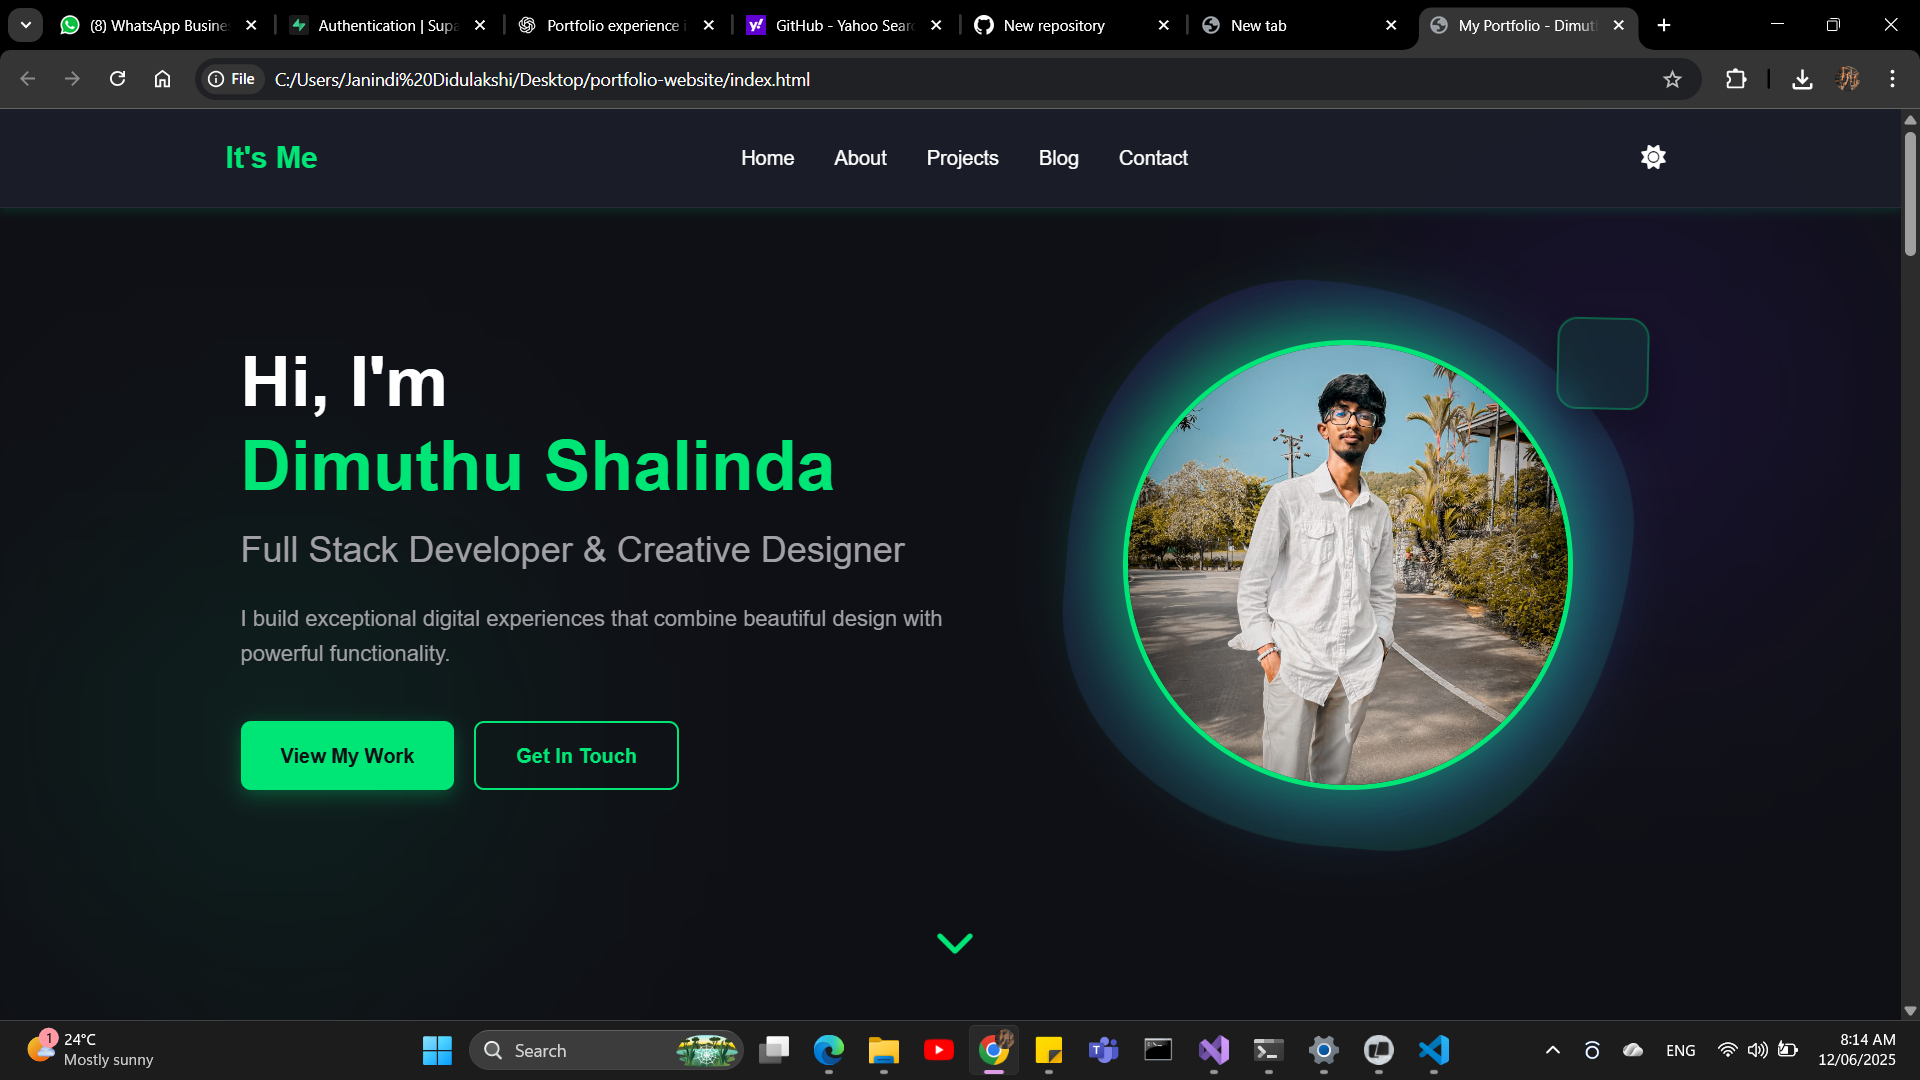
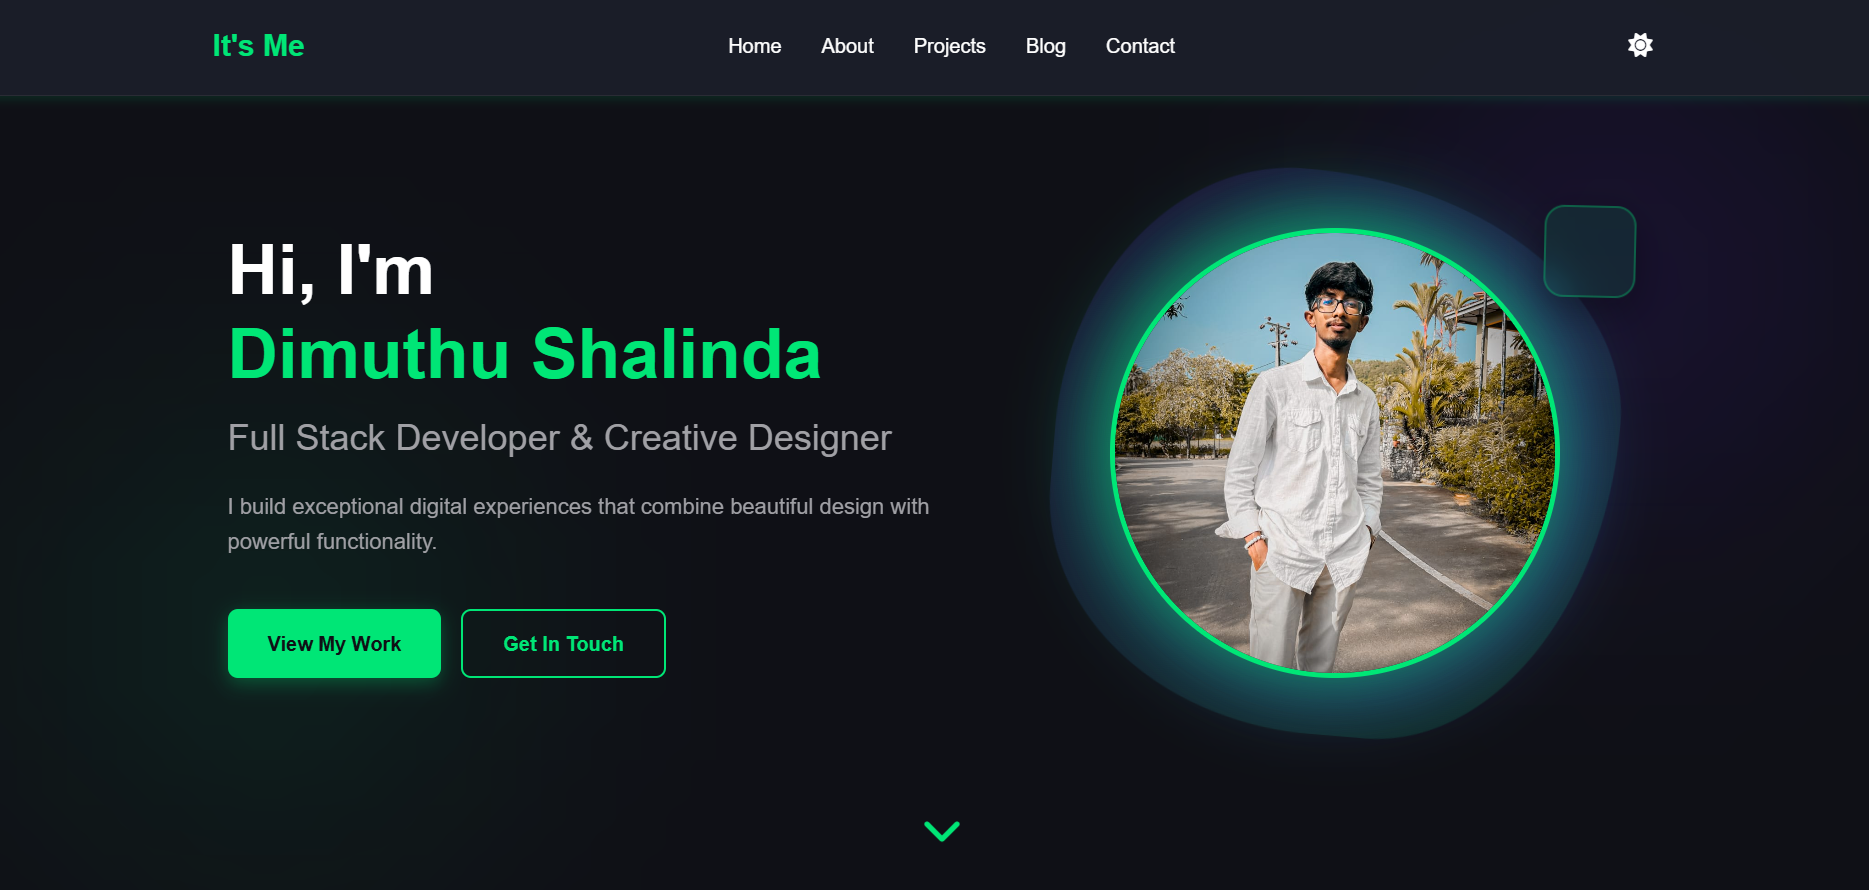
Add files via upload

diff --git a/index.html b/index.html
@@ -12,7 +12,7 @@
     <nav class="navbar" id="navbar">
         <div class="container">
             <div class="logo">
-                <a href="#home">It's Me</a>
+                <a href="#home">WELCOME</a>
             </div>
             <ul class="nav-links" id="navLinks">
                 <li><a href="#home" class="nav-link">Home</a></li>
@@ -203,25 +203,26 @@
                 <!-- Project Card 1 -->
                 <div class="project-card">
                     <div class="project-image">
-                        <img src="https://images.unsplash.com/photo-1557821552-17105176677c?w=1200&h=800&fit=crop" alt="E-commerce Platform">
+                        <img src="C:\Users\Janindi Didulakshi\Desktop\portfolio-website\Images\HOME.png" alt="Portfolio-Website">
                         <div class="project-overlay">
                             <div class="project-links">
-                                <a href="https://github.com/yourusername/project1" target="_blank" class="project-link">
+                                <a href="https://github.com/Scopiarchy/Portfolio-Website-Personal-Project-" target="_blank" class="project-link">
                                     <i class="fab fa-github"></i>
                                 </a>
-                                <a href="https://project1-demo.com" target="_blank" class="project-link">
+                                <a href="roject-links">
+                                <a href="https://github.com/Scopiarchy/Portfolio-Website-Personal-Project-" target="_blank" class="project-link">
                                     <i class="fas fa-external-link-alt"></i>
                                 </a>
                             </div>
                         </div>
                     </div>
                     <div class="project-info">
-                        <h3>E-commerce Platform</h3>
-                        <p>A full-featured online shopping platform with cart, payment integration, and admin dashboard.</p>
+                        <h3>Portfolio-Website</h3>
+                        <p>A responsive portfolio website built with HTML, CSS, and JavaScript to professionally showcase personal projects and skills.</p>
                         <div class="project-tech">
-                            <span class="tech-tag">React</span>
-                            <span class="tech-tag">Node.js</span>
-                            <span class="tech-tag">MongoDB</span>
+                            <span class="tech-tag">Html</span>
+                            <span class="tech-tag">Css</span>
+                            <span class="tech-tag">JavaScript</span>
                             <span class="tech-tag">Stripe</span>
                         </div>
                     </div>
@@ -230,24 +231,24 @@
                 <!-- Project Card 2 -->
                 <div class="project-card">
                     <div class="project-image">
-                        <img src="https://images.unsplash.com/photo-1454165804606-c3d57bc86b40?w=1200&h=800&fit=crop" alt="Task Management App">
+                        <img src="C:\Users\Janindi Didulakshi\Desktop\portfolio-website\Images\INVOICE.png" alt="Invoice-Billing-System">
                         <div class="project-overlay">
                             <div class="project-links">
-                                <a href="https://github.com/yourusername/project2" target="_blank" class="project-link">
+                                <a href="https://github.com/Scopiarchy/Invoice-Billing-System-Web-Application" target="_blank" class="project-link">
                                     <i class="fab fa-github"></i>
                                 </a>
-                                <a href="https://project2-demo.com" target="_blank" class="project-link">
+                                <a href="https://github.com/Scopiarchy/Invoice-Billing-System-Web-Application" target="_blank" class="project-link">
                                     <i class="fas fa-external-link-alt"></i>
                                 </a>
                             </div>
                         </div>
                     </div>
                     <div class="project-info">
-                        <h3>Task Management App</h3>
-                        <p>Collaborative task manager with real-time updates, deadlines, and team collaboration features.</p>
+                        <h3>Invoice-Billing-System</h3>
+                        <p>A simple and efficient web-based invoice billing system built using HTML, CSS, PHP, and MySQL. This project runs on a local XAMPP environment and is designed to help small businesses manage customer invoices, billing records, and basic transaction tracking in an easy and user-friendly way.</p>
                         <div class="project-tech">
-                            <span class="tech-tag">Vue.js</span>
-                            <span class="tech-tag">Firebase</span>
+                            <span class="tech-tag">Html</span>
+                            <span class="tech-tag">Php</span>
                             <span class="tech-tag">Tailwind CSS</span>
                         </div>
                     </div>
@@ -369,16 +370,15 @@
                 <!-- Blog Post 1 -->
                 <article class="blog-card">
                     <div class="blog-image">
-                        <img src="https://images.unsplash.com/photo-1633356122544-f134324a6cee?w=800&h=600&fit=crop" alt="Blog Post 1">
-                        <span class="blog-date">Dec 1, 2024</span>
+                        <img src="C:\Users\Janindi Didulakshi\Desktop\portfolio-website\Images\How-to-get-your-first-order-on-fiverr-1024x576.png" alt="Blog Post 1">
+                        <span class="blog-date">Dec 6, 2022</span>
                     </div>
                     <div class="blog-content">
-                        <h3>Getting Started with React Hooks</h3>
+                        <h3> 11 Tricky Ways To Get Your First Order On Fiverr – 2022</h3>
                         <p>
-                            A comprehensive guide to understanding and implementing React Hooks in your projects. 
-                            Learn about useState, useEffect, and custom hooks.
+                              Fiverr is something like a food city where there are buyers as well as service providers.It is traded without the use of physical money and is done entirely over the internet.Fiverr is an online platform that allows get service and sells what people are want.
                         </p>
-                        <a href="https://yourblog.com/react-hooks" target="_blank" class="blog-link">
+                        <a href="https://docs.google.com/document/d/1s_iZl-cwmMzmtejlFy6jY-se1RyK-Yvq/edit?usp=drive_link&ouid=108685839921299571097&rtpof=true&sd=true" target="_blank" class="blog-link">
                             Read More <i class="fas fa-arrow-right"></i>
                         </a>
                     </div>
@@ -387,16 +387,15 @@
                 <!-- Blog Post 2 -->
                 <article class="blog-card">
                     <div class="blog-image">
-                        <img src="https://images.unsplash.com/photo-1558494949-ef010cbdcc31?w=800&h=600&fit=crop" alt="Blog Post 2">
+                        <img src="C:\Users\Janindi Didulakshi\Desktop\portfolio-website\Images\Borei-A-ssbn-scaled.webp" alt="Blog Post 2">
                         <span class="blog-date">Nov 28, 2024</span>
                     </div>
                     <div class="blog-content">
-                        <h3>Building RESTful APIs with Node.js</h3>
+                        <h3>Submarine Graveyard, Kola Peninsula, Russia</h3>
                         <p>
-                            Learn best practices for creating scalable and maintainable REST APIs using Node.js 
-                            and Express framework.
+                            Do you have a passion for submarines? I'm sure you'll be shocked if I tell you there is a submarine graveyard. Many Russian submarines have died in the area surrounding Nezametnaya Cove, close to the village of Gadzhiyevo, in Murmansk Oblast on the Kola Peninsula. 
                         </p>
-                        <a href="https://yourblog.com/nodejs-api" target="_blank" class="blog-link">
+                        <a href="https://docs.google.com/document/d/1-kEK8RLfTz7OkeqIM3Q2MRxDqAlQUTxJN4rFk-pR638/edit?usp=drive_link" target="_blank" class="blog-link">
                             Read More <i class="fas fa-arrow-right"></i>
                         </a>
                     </div>
@@ -405,16 +404,16 @@
                 <!-- Blog Post 3 -->
                 <article class="blog-card">
                     <div class="blog-image">
-                        <img src="https://images.unsplash.com/photo-1523437113738-bbd3cc89fb19?w=800&h=600&fit=crop" alt="Blog Post 3">
+                        <img src="C:\Users\Janindi Didulakshi\Desktop\portfolio-website\Images\jameswebbtelescope.gif" alt="Blog Post 3">
                         <span class="blog-date">Nov 20, 2024</span>
                     </div>
                     <div class="blog-content">
-                        <h3>CSS Grid vs Flexbox: When to Use What</h3>
+                        <h3>James Webb and his old brother
+
+</h3>
                         <p>
-                            Understanding the differences between CSS Grid and Flexbox, and when to use each 
-                            layout system for optimal results.
-                        </p>
-                        <a href="https://yourblog.com/css-grid-flexbox" target="_blank" class="blog-link">
+                           However, the Hubble Space Telescope, often known as HST or Hubble, is an observatory that was put into low-Earth orbit in 1990 and is still in use today.Despite not being the first, it is one of the biggest and most efficient space telescopes.
+                        <a href="https://docs.google.com/document/d/1B5tNfLs84DpWGShb155hpak0KgwynRnVRwhWsAPQEeY/edit?usp=drive_link" target="_blank" class="blog-link">
                             Read More <i class="fas fa-arrow-right"></i>
                         </a>
                     </div>

diff --git a/README.md b/README.md
@@ -306,5 +306,4 @@ For issues or questions:
 
 ---
 
-**Made with Dimuthu Shalinda**
-
+**Made with ❤ by Janindi Didulakshi**
